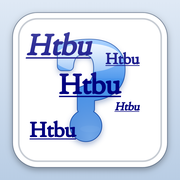
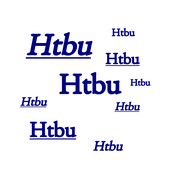
圖標拿掉玻璃外框和問號，多加四組較小的 Htbu，底線隨機
Claude-Session: https://claude.ai/code/session_01CvYpPQnMtBqMma8WMqr6Vg

diff --git a/tools/icon.html b/tools/icon.html
@@ -1,39 +1,14 @@
 <!doctype html><meta charset="utf-8"><style>
-@font-face{font-family:QM;src:url(file:///usr/share/fonts/truetype/dejavu/DejaVuSerif-Bold.ttf)}
 @font-face{font-family:TX;src:url(../SatsukiGendaiMincho-M.ttf)}
 body{margin:0}</style><canvas id="c" width="1024" height="1024"></canvas><script>
-async function draw(){await document.fonts.load('100px QM','?');await document.fonts.load('100px TX','Htbu');
-const S=1024,c=document.getElementById('c').getContext('2d');
-/* 外圍底色（iOS 會自己裁圓角，四角不能透明） */
-const bgG=c.createLinearGradient(0,0,0,S);bgG.addColorStop(0,'#dfe9f5');bgG.addColorStop(1,'#b9cde4');c.fillStyle=bgG;c.fillRect(0,0,S,S);
-const M=S*.07,W=S-2*M,R=W*.16;
-const rr=(x,y,w,h,r)=>{c.beginPath();c.roundRect(x,y,w,h,r)};
-/* 頭貼外框：陰影＋深色細邊 */
-c.save();c.shadowColor='rgba(0,0,0,.35)';c.shadowBlur=S*.035;c.shadowOffsetY=S*.012;rr(M,M,W,W,R);c.fillStyle='#fff';c.fill();c.restore();
-/* 內容：白底 */
-c.save();rr(M,M,W,W,R);c.clip();c.fillStyle='#fff';c.fillRect(M,M,W,W);
-/* 問號：Win7 藍色玻璃 */
-const qs=W*.8;c.font=`${qs}px QM`;c.textAlign='center';c.textBaseline='alphabetic';
-const qm=c.measureText('?'),qy=S/2+(qm.actualBoundingBoxAscent-qm.actualBoundingBoxDescent)/2,qt=qy-qm.actualBoundingBoxAscent,qb=qy+qm.actualBoundingBoxDescent;
-const off=new OffscreenCanvas(S,S),o=off.getContext('2d');o.font=c.font;o.textAlign='center';
-const g=o.createLinearGradient(0,qt,0,qb);g.addColorStop(0,'#8fc3ff');g.addColorStop(.45,'#3c8ce8');g.addColorStop(1,'#1d5fc4');o.fillStyle=g;o.strokeStyle=g;o.lineJoin='round';o.lineWidth=S*.045;o.strokeText('?',S/2,qy);o.fillText('?',S/2,qy);
-o.globalCompositeOperation='source-atop';
-const hl=o.createLinearGradient(0,qt,0,qt+(qb-qt)*.5);hl.addColorStop(0,'rgba(255,255,255,.85)');hl.addColorStop(1,'rgba(255,255,255,.05)');o.fillStyle=hl;
-o.beginPath();o.ellipse(S/2-qs*.02,qt+(qb-qt)*.16,qs*.27,(qb-qt)*.15,0,0,Math.PI*2);o.fill();
-o.beginPath();o.ellipse(S/2,qb-(qb-qt)*.09,qs*.08,(qb-qt)*.035,0,0,Math.PI*2);o.fill();
-const rg=o.createRadialGradient(S/2,qb,0,S/2,qb,qs*.5);rg.addColorStop(0,'rgba(170,215,255,.6)');rg.addColorStop(1,'rgba(170,215,255,0)');o.fillStyle=rg;o.fillRect(0,0,S,S);
-c.save();c.shadowColor='rgba(20,60,140,.35)';c.shadowBlur=S*.03;c.shadowOffsetY=S*.015;c.lineJoin='round';c.lineWidth=S*.053;c.strokeStyle='#1a4fa8';c.strokeText('?',S/2,qy);c.restore();c.drawImage(off,0,0);
-
-/* Htbu：Win95 預設主題色②；參考網頁連結散落的感覺——不旋轉、大小差很多、有的斜體、底線，有幾組擠在一起交疊 */
-c.font=`100px TX`;c.textAlign='left';const tw=c.measureText('Htbu').width;c.fillStyle=c.strokeStyle='#000080';c.lineJoin='round';
-/* [x, 基線 y, 字寬（方框比例）, 斜體] */
-[[.09,.27,.42,1],[.60,.33,.22,0],[.30,.52,.40,0],[.66,.63,.16,1],[.11,.80,.30,0]].forEach(([x,y,w,it])=>{const f=100*W*w/tw;c.save();c.translate(M+W*x,M+W*y);if(it)c.transform(1,0,-.2,1,0,0);c.font=`${f}px TX`;c.lineWidth=f*.06;c.strokeText('Htbu',0,0);c.fillText('Htbu',0,0);c.fillRect(0,f*.1,W*w,Math.max(2,f*.05));c.restore()});
-c.restore();
-/* 頭貼外框：上半亮面＋白色半透明內框＋細深邊（比照 html.w7 .av） */
-c.save();rr(M,M,W,W,R);c.clip();
-const sh=c.createLinearGradient(0,M,0,M+W);sh.addColorStop(0,'rgba(255,255,255,.32)');sh.addColorStop(.42,'rgba(255,255,255,.06)');sh.addColorStop(.43,'rgba(255,255,255,0)');c.fillStyle=sh;c.fillRect(M,M,W,W);
-const b=W*.04;c.lineWidth=b*2;c.strokeStyle='rgba(255,255,255,.62)';rr(M,M,W,W,R);c.stroke();
-c.lineWidth=W*.01;c.strokeStyle='rgba(30,50,80,.25)';rr(M+b,M+b,W-2*b,W-2*b,R-b);c.stroke();
-c.restore();c.lineWidth=S*.004;c.strokeStyle='rgba(40,60,90,.55)';rr(M,M,W,W,R);c.stroke();
+async function draw(){await document.fonts.load('100px TX','Htbu');
+const S=1024,c=document.getElementById('c').getContext('2d'),M=S*.07,W=S-2*M;
+/* 白底（iOS 會自己裁圓角，四角不能透明） */
+c.fillStyle='#fff';c.fillRect(0,0,S,S);
+/* Htbu：Win95 預設主題色②、Satsuki 加粗；參考網頁連結散落的感覺——不旋轉、大小差很多、有的斜體、有的底線 */
+c.font=`100px TX`;const tw=c.measureText('Htbu').width;c.fillStyle=c.strokeStyle='#000080';c.lineJoin='round';
+/* [x, 基線 y, 字寬（方框比例）, 斜體, 底線] */
+[[.09,.27,.42,1,1],[.60,.33,.22,0,1],[.30,.52,.40,0,0],[.66,.63,.16,1,1],[.11,.80,.30,0,1],
+ [.64,.15,.15,0,0],[.05,.60,.17,1,1],[.76,.47,.13,0,0],[.52,.89,.19,1,0]].forEach(([x,y,w,it,ul])=>{const f=100*W*w/tw;c.save();c.translate(M+W*x,M+W*y);if(it)c.transform(1,0,-.2,1,0,0);c.font=`${f}px TX`;c.lineWidth=f*.06;c.strokeText('Htbu',0,0);c.fillText('Htbu',0,0);if(ul)c.fillRect(0,f*.1,W*w,Math.max(2,f*.05));c.restore()});
 document.title='done'}
 draw();</script>

diff --git a/sw.js b/sw.js
@@ -1,5 +1,5 @@
 // 更新程式後，把下面的版本號加 1，手機才會抓到新版
-const C = 'nyear-v253';
+const C = 'nyear-v254';
 const FILES = ['./', './index.html', './fonts.css', './manifest.webmanifest', './icon-192.png', './icon-512.png', './apple-touch-icon.png'];
 // 字體切成小份（fonts/）：先備好 Win95 字體的第一份（英數標點＋介面文字），其他用到時才下載
 const FONTS = ['./fonts/c00.ttf'];
